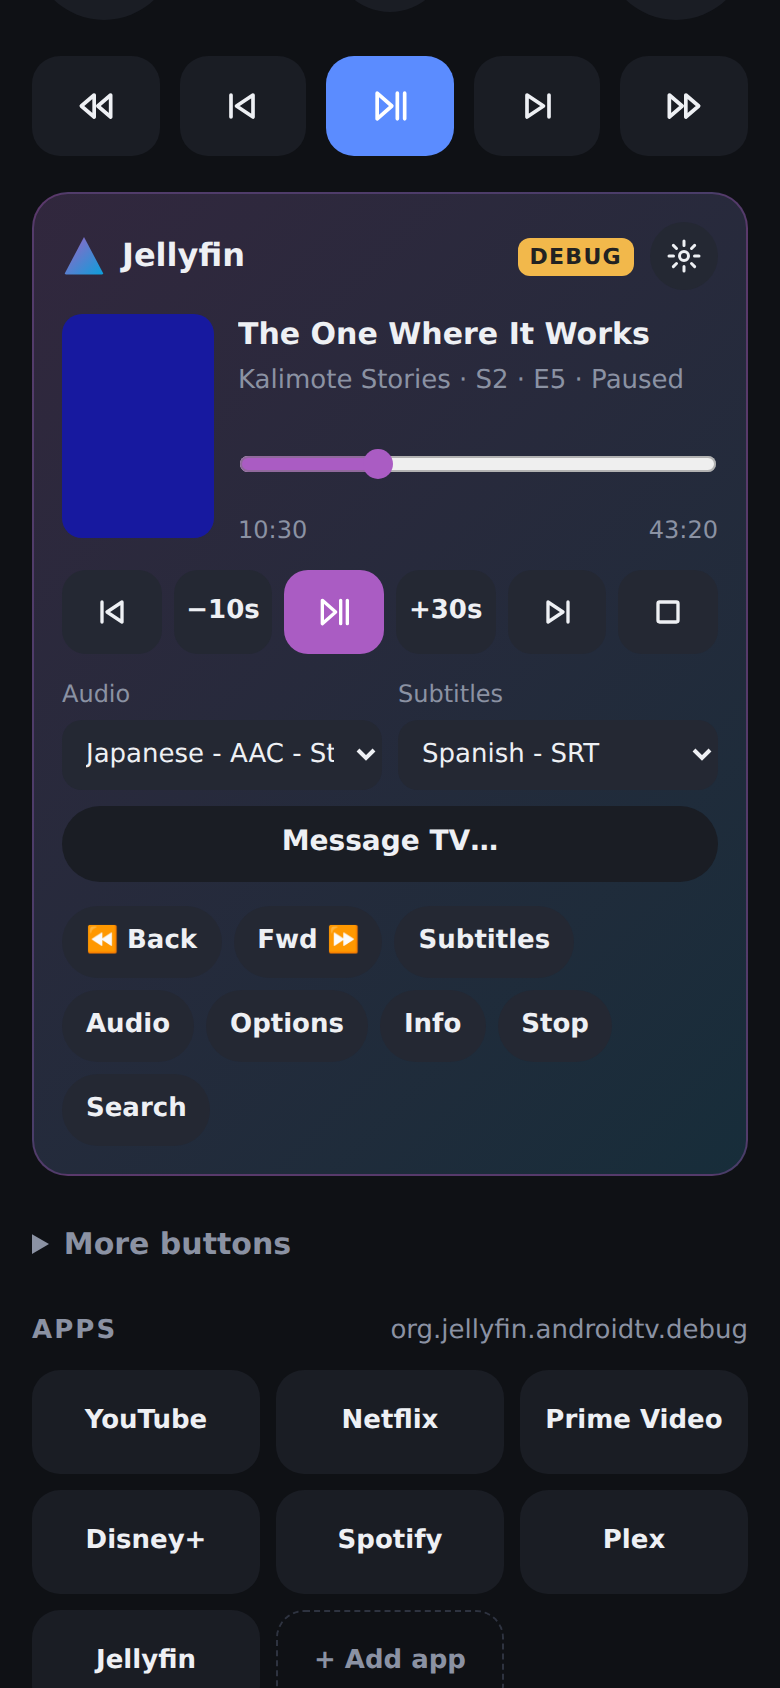
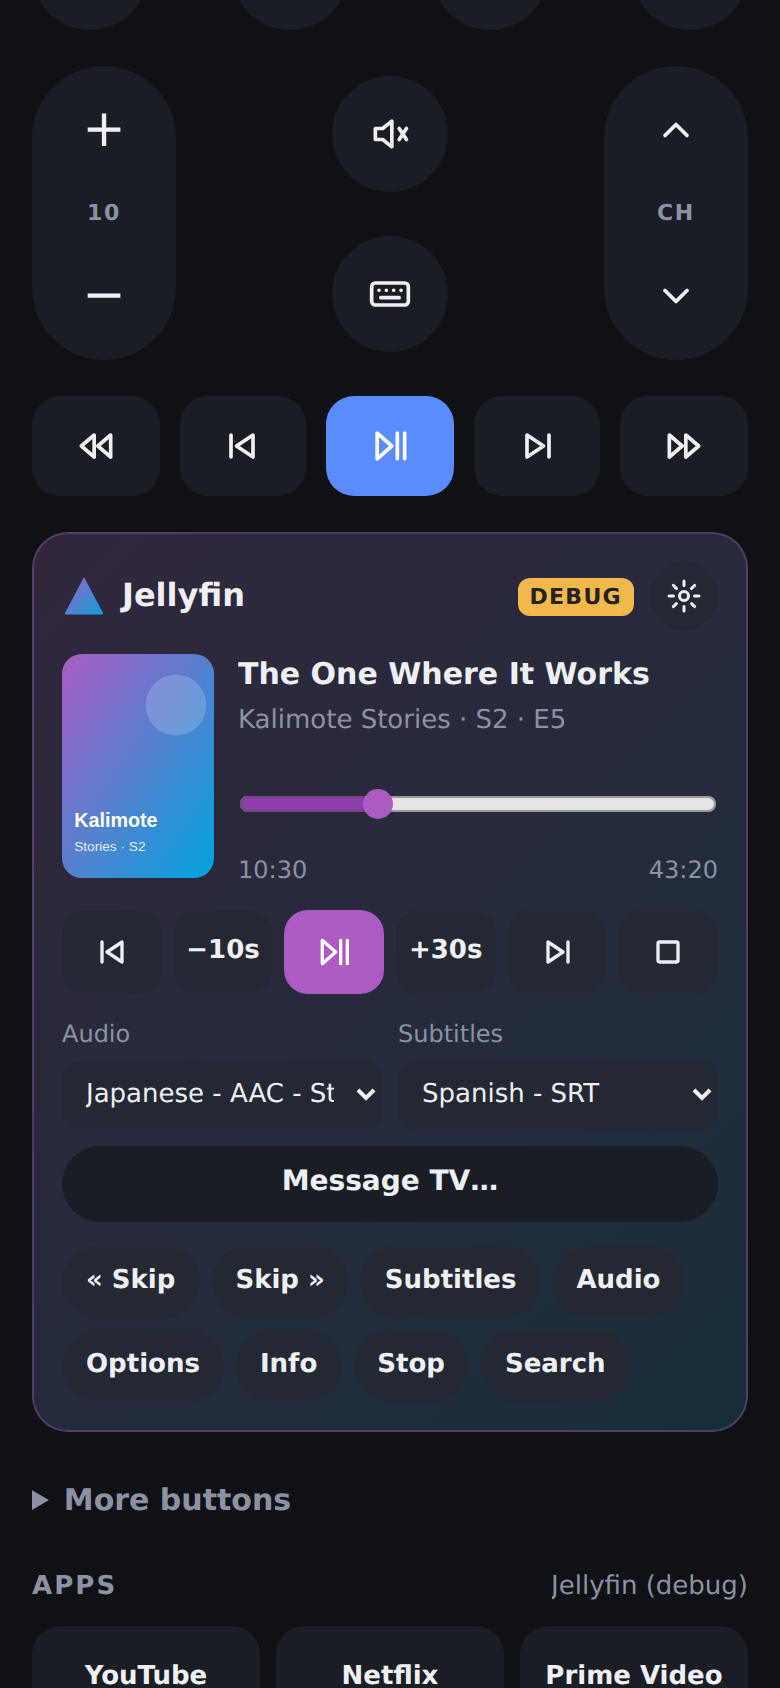
README: document Jellyfin mode, API and screenshot
Claude-Session: https://claude.ai/code/session_01JfuJYEaQC6zcvvHFMW1T5M

diff --git a/README.md b/README.md
@@ -19,6 +19,7 @@ Pair once with the code on your TV screen. No developer mode, no ADB, nothing to
 [Web remote](#-web-remote) ·
 [Features](#-features) ·
 [Macros](#-macros) ·
+[Jellyfin](#-jellyfin) ·
 [REST API](#-rest-api--home-automation) ·
 [FAQ](#-troubleshooting)
 
@@ -46,6 +47,7 @@ Pair once with the code on your TV screen. No developer mode, no ADB, nothing to
 | 🔗 | **Open any link on the TV**: paste a YouTube or Netflix URL | ✅ | ✅ |
 | 📤 | **Share to TV** from any app's share sheet | | ✅ |
 | 🧩 | **Macros**: chain keys, waits, text and links into one button | ✅ | ✅ |
+| 🪼 | **Jellyfin mode**: extra buttons when Jellyfin (incl. debug builds) is on screen, plus now-playing, seek and track switching with your server | ✅ | ✅ |
 | 🌙 | **Sleep timer**: turns the TV off later, only if it's on | ✅ | ✅ |
 | ⚡ | **Wake-on-LAN** for TVs that drop off the network when off | ✅ (MAC auto-detected) | ✅ |
 | 📺 | Shows the **app playing** on the TV and its power state | ✅ | ✅ |
@@ -176,6 +178,25 @@ ENTER
 ```
 </details>
 
+## 🪼 Jellyfin
+
+<img src="docs/screenshots/jellyfin.png" width="260" align="right" alt="Jellyfin panel">
+
+When the TV reports that **Jellyfin** is in the foreground, Kalimote adds a Jellyfin panel to the remote. That covers `org.jellyfin.androidtv`, the **debug build** `org.jellyfin.androidtv.debug` (marked with a *DEBUG* badge) and the Jellyfin mobile app.
+
+**With no setup**, you get Jellyfin-friendly buttons: skip back/forward, subtitles, audio track, player options, info, stop and search.
+
+**Connect your Jellyfin server** (⚙ in the panel, or *TVs → Jellyfin*) with its URL and an API key from *Dashboard → API Keys*. You then get:
+
+- a **now-playing card** with poster, series/episode and live progress
+- a **draggable seek bar** plus exact **−10 s / +30 s**, previous/next and stop
+- **audio and subtitle track pickers**
+- **Message TV…** to pop a notice up on the screen
+
+Kalimote finds the TV's Jellyfin session by IP address. On the web remote the API key stays on the Kalimote server and is never sent to browsers.
+
+<br clear="right">
+
 ## 🏠 REST API & home automation
 
 The web server exposes a small JSON API, so Home Assistant, iOS Shortcuts, Tasker or a shell script can drive your TV. `:device` is the device id **or its name**.
@@ -192,6 +213,8 @@ The web server exposes a small JSON API, so Home Assistant, iOS Shortcuts, Taske
 | `POST /api/devices/:device/volume` | `{"level": 15}` | Set absolute volume |
 | `POST /api/devices/:device/sleep` | `{"minutes": 30}` | Sleep timer (`0` cancels) |
 | `POST /api/devices/:device/macro` | `{"name": "Bedtime"}` or `{"script": "HOME, wait 1s"}` | Run a macro |
+| `GET /api/devices/:device/jellyfin` | | What Jellyfin is playing on the TV |
+| `POST /api/devices/:device/jellyfin` | `{"action": "seekBy", "value": 30000}` | `playpause` `stop` `next` `previous` `seek` `seekBy` `subtitle` `audio` `message` |
 
 ```bash
 curl -X POST http://kalimote.local:8080/api/devices/Living%20Room%20TV/power \
@@ -249,6 +272,7 @@ Browsers can't open raw TLS sockets, so the web remote goes through a small Node
 | Android app | [`android/app`](android/app) | Kotlin + Jetpack Compose + Material 3 |
 | Protocol library | [`android/atvremote`](android/atvremote) | Pure Kotlin/JVM, no Android or protobuf dependencies |
 | Mock TV | [`server/test/mock-tv.js`](server/test/mock-tv.js) | Implements the TV side, used by both test suites |
+| Mock Jellyfin | [`server/test/mock-jellyfin.js`](server/test/mock-jellyfin.js) | Fake Jellyfin API with a shared session fixture, used by both test suites |
 
 <details>
 <summary><b>The protocol in detail</b></summary>
